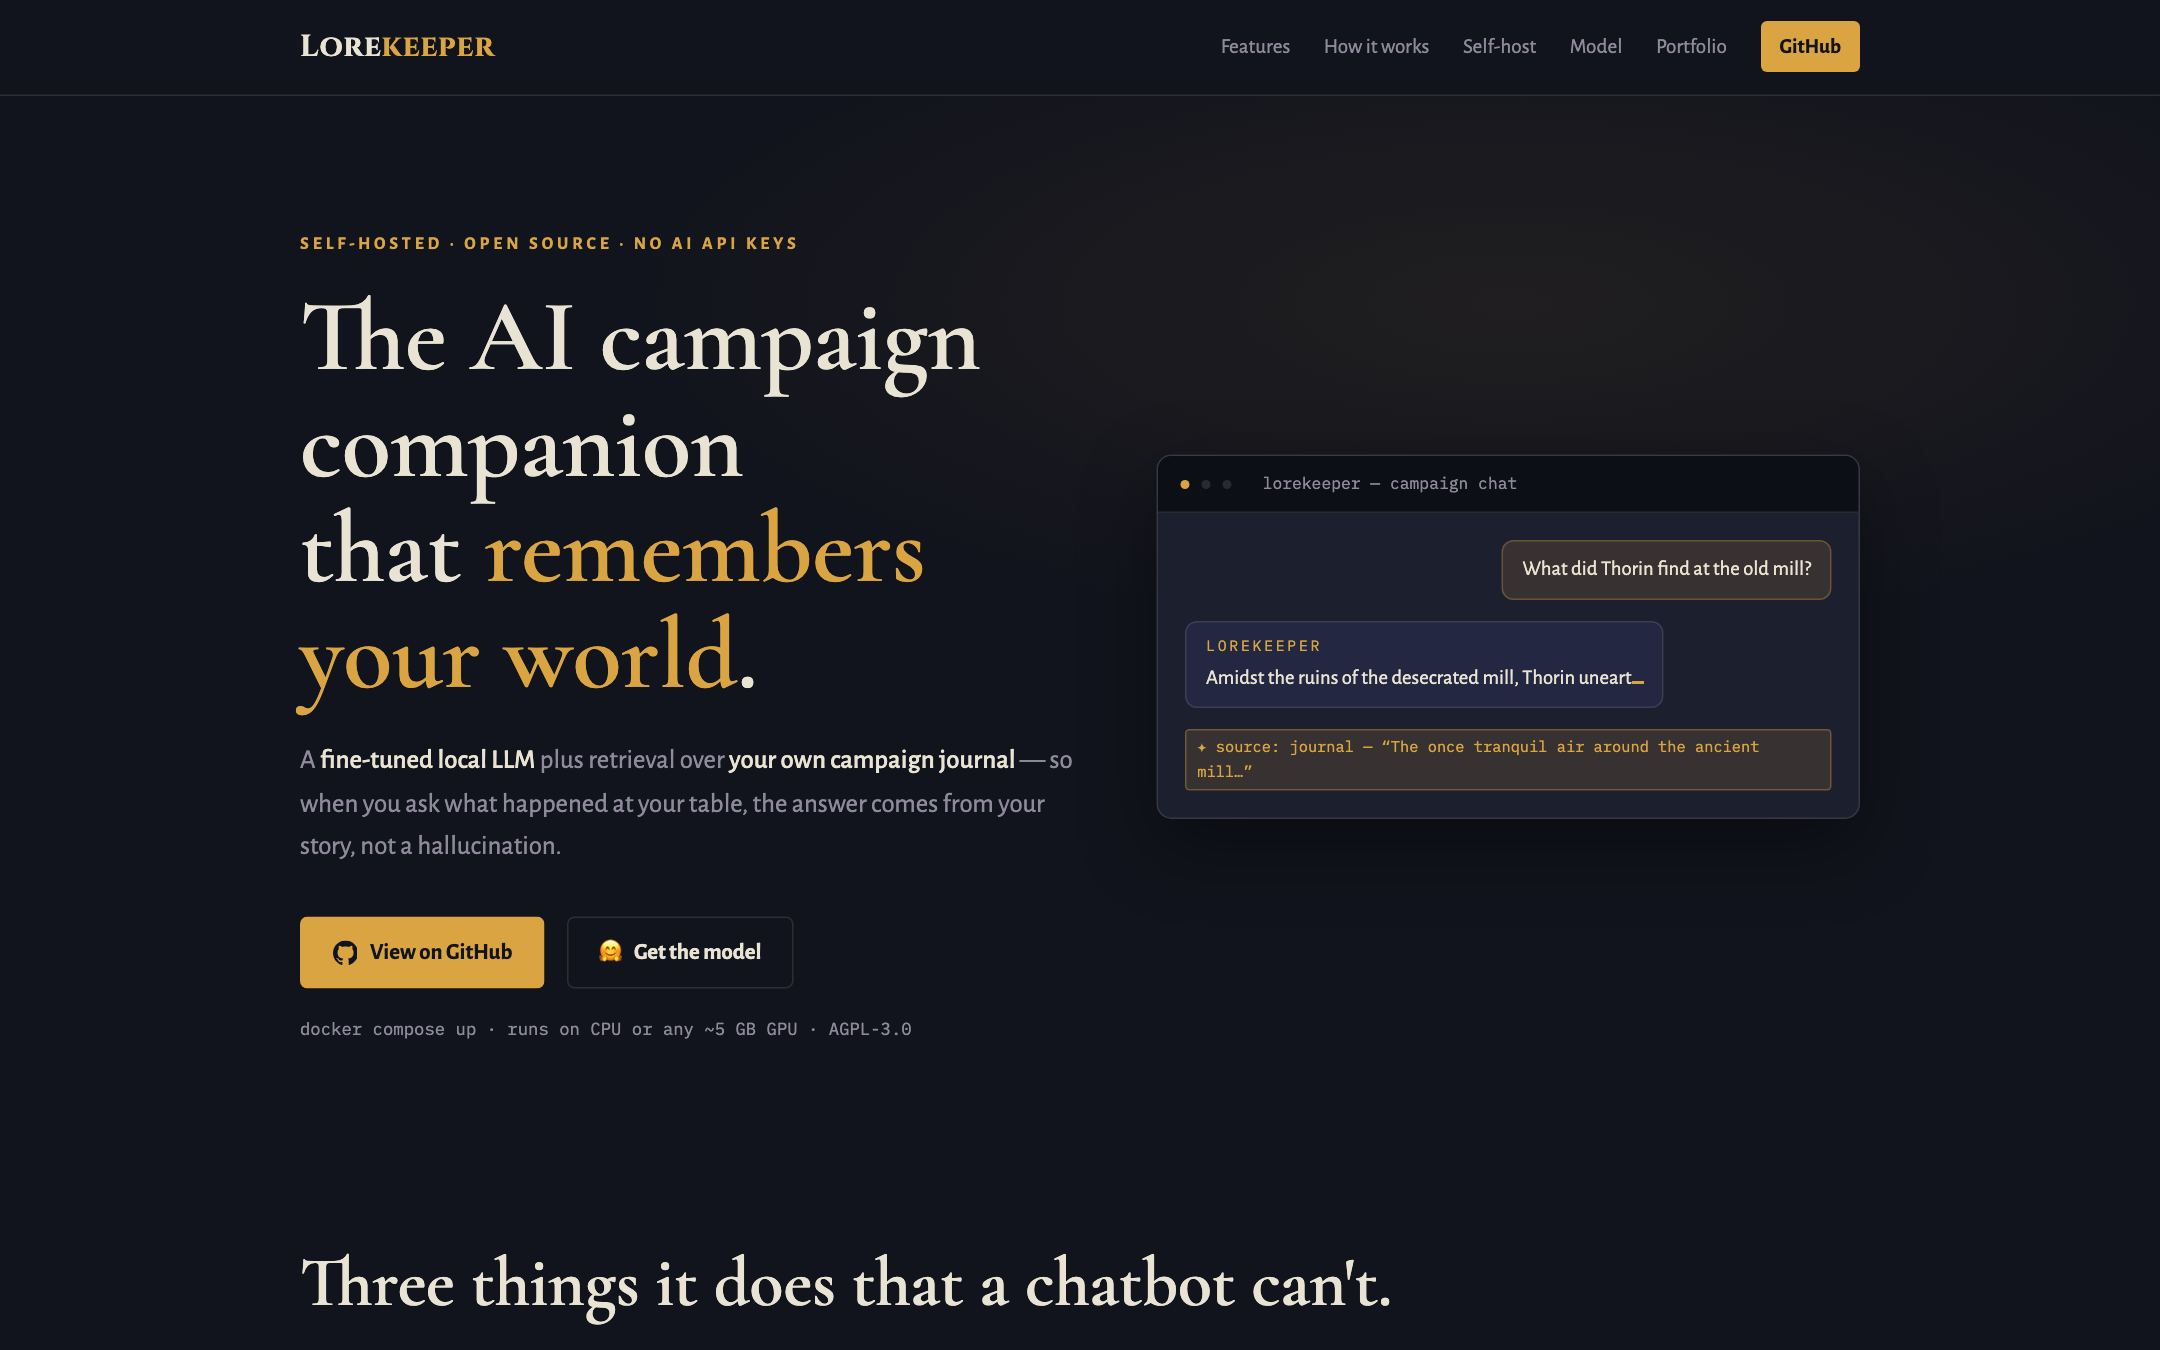
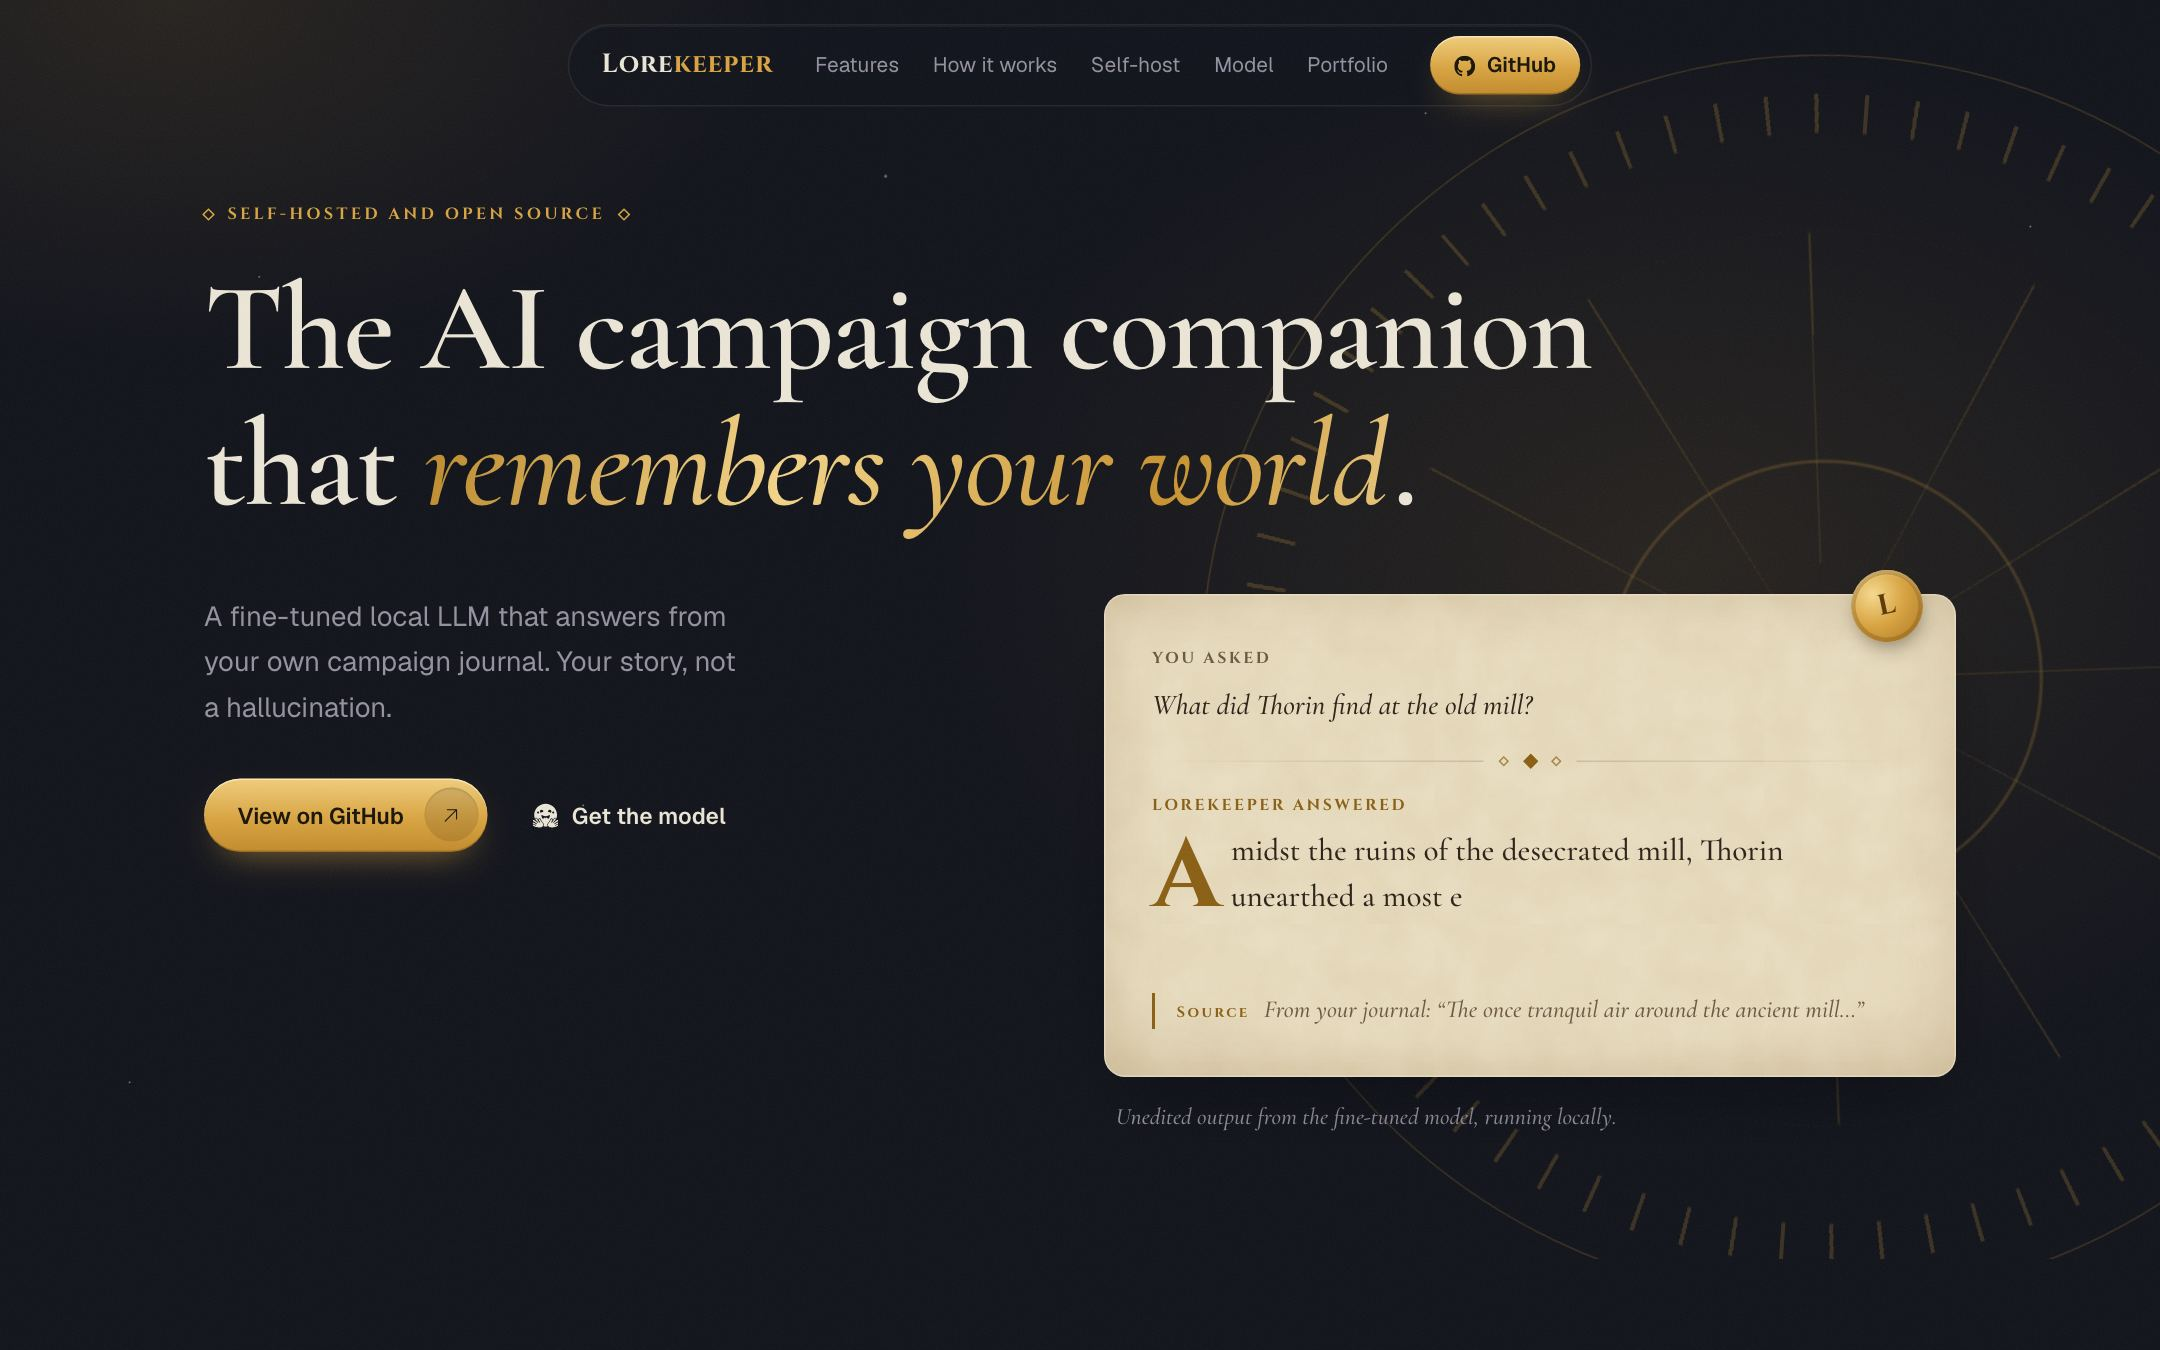
Update project showcase for new Lorekeeper, Ogden, and Hermit sites
Refresh Lorekeeper and Ogden screenshots and copy, link the live Hermit
site with a new screenshot, and replace the project count with GitHub links.

diff --git a/index.html b/index.html
@@ -96,7 +96,7 @@
         <div class="bezel-core">
           <div class="stage-bar" aria-hidden="true"><em>lorekeeper.quest</em></div>
           <img src="assets/work/lorekeeper.jpg" width="2160" height="1350"
-               alt="The Lorekeeper.quest landing page: 'The AI campaign companion that remembers your world', beside a campaign chat that cites its source journal entry.">
+               alt="The Lorekeeper.quest landing page: 'The AI campaign companion that remembers your world', beside a parchment card where Lorekeeper answers a question and cites the journal entry it came from.">
         </div>
       </a>
     </div>
@@ -152,12 +152,12 @@
               <span class="fact-label">years of combined technical experience</span>
             </div>
           </div>
-          <div class="bezel reveal">
+          <a class="bezel fact-link reveal" href="https://github.com/hsmith-dev" target="_blank" rel="noopener">
             <div class="bezel-core fact">
-              <span class="fact-num">4</span>
-              <span class="fact-label">AI products built end to end</span>
+              <i class="ph-light ph-github-logo fact-icon" aria-hidden="true"></i>
+              <span class="fact-label">More projects and source on GitHub <i class="ph-light ph-arrow-up-right" aria-hidden="true"></i></span>
             </div>
-          </div>
+          </a>
           <div class="bezel facts-wide reveal">
             <div class="bezel-core edu">
               <div class="edu-row">
@@ -281,15 +281,16 @@
               <h3><a href="https://ogden.harrisonsmith.ai" target="_blank" rel="noopener" class="stretched">Ogden</a></h3>
               <p class="tile-kind">Multi-agent AI team platform</p>
               <p>
-                A self-hosted platform for assembling AutoGen-backed agent personas, each with its own
-                prompt, model, and role, into teams that work a real backlog. Sandboxed git and test
-                tool execution, per-project budget caps, and full run-history observability.
+                A self-hosted crew of AI personas (product manager, engineers, QA, DevOps) working one
+                shared Kanban board inside a sandboxed git workspace. They pick up tasks, write the code,
+                and open branches for human review, with any model provider, spend caps, and a full
+                audit trail.
               </p>
-              <ul class="tags"><li>AutoGen</li><li>FastAPI</li><li>Sandboxed tools</li><li>MIT</li></ul>
+              <ul class="tags"><li>Multi-agent</li><li>Human-in-the-loop</li><li>Any model provider</li><li>Self-hosted</li></ul>
             </div>
             <div class="tile-shot">
               <img src="assets/work/ogden.jpg" width="2160" height="1350" loading="lazy"
-                   alt="The Ogden landing page: 'You bring the backlog. Ogden brings the crew.', beside a crew manifest of five AI personas and their current tasks.">
+                   alt="The Ogden landing page: 'You bring the backlog. Ogden brings the crew.', beside a Kanban board where AI personas move tasks from backlog to review.">
             </div>
             <span class="tile-arrow" aria-hidden="true"><i class="ph-light ph-arrow-up-right"></i></span>
           </div>
@@ -297,14 +298,20 @@
 
         <article class="bezel tile-hermit reveal">
           <div class="bezel-core tile">
-            <p class="flag">In development</p>
-            <h3>Hermit</h3>
-            <p class="tile-kind">Local-AI note companion</p>
-            <p>
-              Native notes for iOS, iPadOS, macOS, and watchOS with an on-device AI layer. Capture,
-              organize, and converse with your notes without them leaving your hardware.
-            </p>
-            <ul class="tags"><li>SwiftUI</li><li>On-device LLM</li><li>Local-first</li></ul>
+            <div class="tile-copy">
+              <p class="flag">Coming soon to iOS</p>
+              <h3><a href="https://hermit.harrisonsmith.ai" target="_blank" rel="noopener" class="stretched">Hermit</a></h3>
+              <p class="tile-kind">Private voice notes with on-device AI</p>
+              <p>
+                Records, transcribes with Whisper, summarizes, and pulls out tasks on iPhone and iPad.
+                Every step runs on the device's own chip, even in airplane mode.
+              </p>
+              <ul class="tags"><li>On-device LLM</li><li>Whisper</li><li>iOS</li></ul>
+            </div>
+            <div class="tile-side-shot">
+              <img src="assets/work/hermit.jpg" width="2160" height="1350" loading="lazy"
+                   alt="The Hermit landing page: 'Your voice notes stay on your iPhone.', beside two iPhone screens showing a lecture recording summary and a task list.">
+            </div>
           </div>
         </article>
 
@@ -323,6 +330,13 @@
             <p>GitHub Actions pipelines that compile and deploy production builds straight to a live site.</p>
           </div>
         </article>
+      </div>
+
+      <div class="work-more reveal">
+        <a href="https://github.com/hsmith-dev" target="_blank" rel="noopener" class="btn btn-glass">
+          More on GitHub
+          <span class="btn-icon" aria-hidden="true"><i class="ph-light ph-github-logo"></i></span>
+        </a>
       </div>
     </div>
   </section>

diff --git a/css/style.css b/css/style.css
@@ -460,6 +460,28 @@ em{ font-style: normal; }
     radial-gradient(90% 120% at 100% 100%, rgba(233,137,74,0.18), transparent 60%),
     linear-gradient(180deg, var(--core-2), var(--core));
 }
+.tile-hermit .tile{ display: grid; grid-template-columns: minmax(0, 1.1fr) minmax(0, 1fr); gap: 24px; padding-right: 0; }
+.tile-hermit .tile-copy{ position: static; display: flex; flex-direction: column; }
+.tile-side-shot{
+  margin: -32px 0 -32px 0; position: relative; overflow: hidden;
+  -webkit-mask-image: linear-gradient(90deg, transparent, #000 22%);
+          mask-image: linear-gradient(90deg, transparent, #000 22%);
+}
+.tile-side-shot img{
+  position: absolute; left: 0; top: -14%; width: 100%; height: 128%;
+  object-fit: cover; object-position: 80% 50%;
+  transition: transform 1s var(--ease);
+}
+.tile-hermit:hover .tile-side-shot img{ transform: scale(1.05); }
+
+.fact-link{ transition: border-color .6s var(--ease), transform .6s var(--ease); }
+.fact-link:hover{ border-color: var(--hair-strong); transform: translateY(-4px); }
+.fact-icon{ font-size: 2.6rem; color: var(--accent); line-height: 1; margin-bottom: auto; padding-bottom: 18px; }
+.fact-link .fact-label{ color: var(--text-dim); transition: color .4s var(--ease); }
+.fact-link:hover .fact-label{ color: var(--text); }
+
+.work-more{ display: flex; justify-content: center; margin-top: 48px; }
+
 .tile-hermit .tile::before{
   content: ''; position: absolute; right: -120px; bottom: -120px; width: 380px; height: 380px;
   background: repeating-radial-gradient(circle, var(--hair) 0 1px, transparent 1px 28px);
@@ -470,7 +492,7 @@ em{ font-style: normal; }
 .flag{
   align-self: flex-start;
   font-family: var(--font-mono); font-size: .72rem; color: var(--accent) !important;
-  padding: 4px 10px; border-radius: 999px; background: var(--accent-soft); margin-bottom: 20px;
+  padding: 4px 10px; border-radius: 999px; background: var(--accent-soft); margin-bottom: 20px; white-space: nowrap;
 }
 .tags{ display: flex; flex-wrap: wrap; gap: 6px; margin-top: auto; padding-top: 8px; }
 .tags li{
@@ -635,6 +657,10 @@ em{ font-style: normal; }
   .tile-ogden, .tile-hermit, .tile-ml, .tile-ci{ grid-column: span 1; grid-row: auto; }
   .tile{ padding: 26px; }
   .tile-shot{ margin-right: -26px; margin-left: 8%; }
+  .tile-hermit .tile{ grid-template-columns: 1fr; padding-right: 26px; }
+  .tile-side-shot{ margin: 0 -26px -26px; height: 240px; }
+  .tile-side-shot img{ top: -35%; height: 170%; object-position: 100% 50%; }
+  .tile-side-shot{ -webkit-mask-image: linear-gradient(180deg, transparent, #000 30%); mask-image: linear-gradient(180deg, transparent, #000 30%); }
   .tile-icon{ padding-bottom: 20px; }
   .fact{ padding: 22px 20px; }
   .edu{ padding: 6px 20px; }
